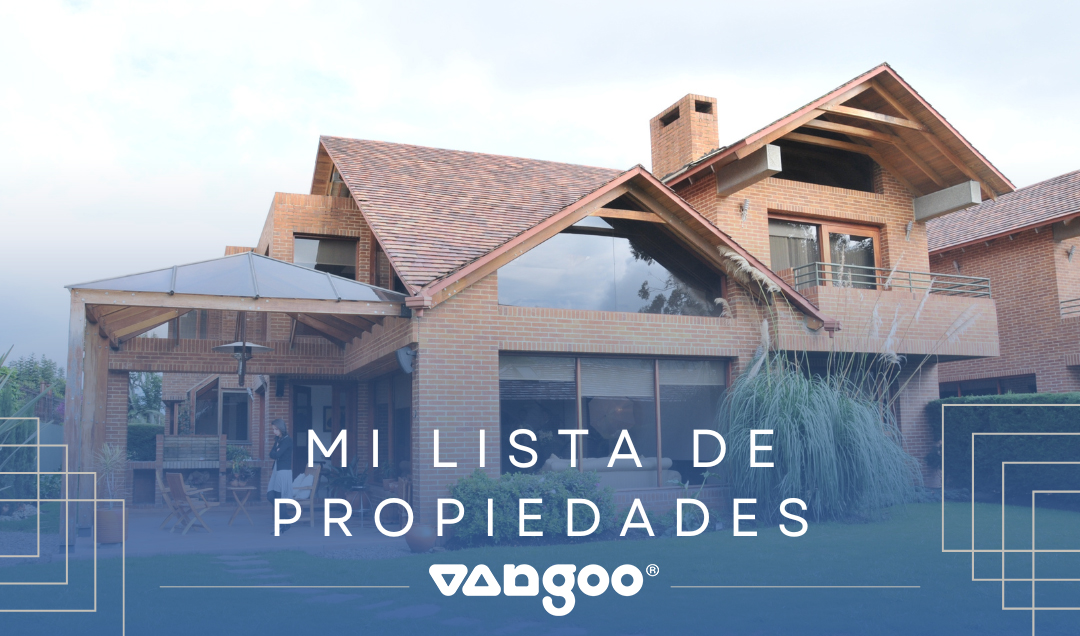
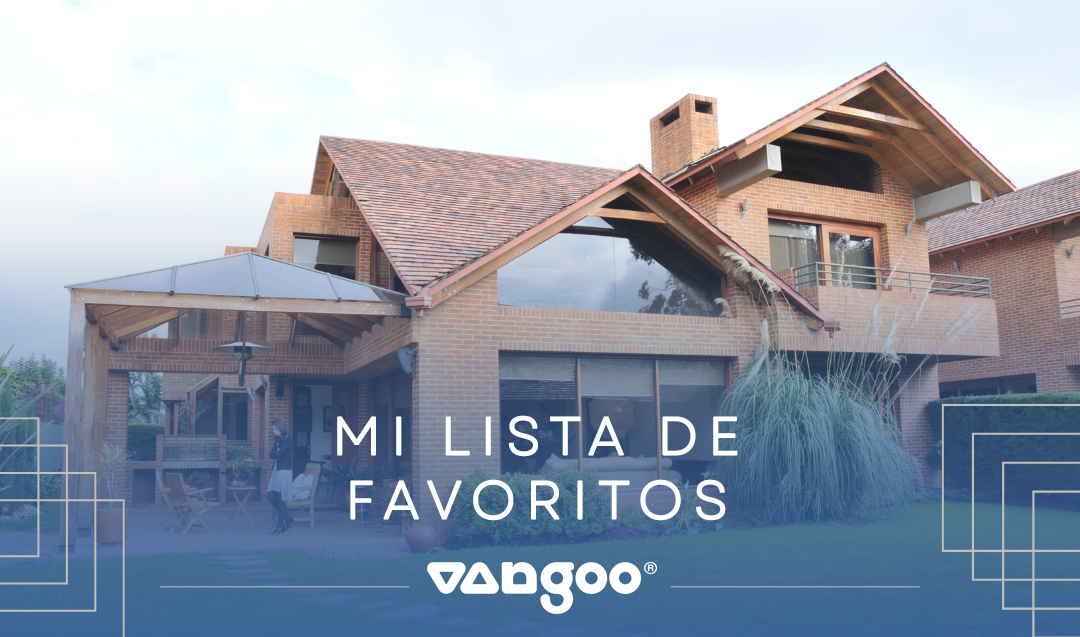
"Removed $typeText variable, updated URLs and API calls, and modified HTML structure and content in share/list/index.php and share/list/view.php files."

diff --git a/public/share/list/view.php b/public/share/list/view.php
@@ -6,10 +6,9 @@ if ($_GET && isset($_GET['id'])) {
     exit;
 }
 
-$typeText = 'properties';
-$urlShare = 'https://dashboard.vangoo.mx/share/property/view.php?id=' . $id;
+$urlShare = 'https://dashboard.vangoo.mx/share/list/view.php?id=' . $id;
 
-$urlApi = 'https://dashboard.vangoo.mx/ep/getProperty/' . $id;
+$urlApi = 'https://dashboard.vangoo.mx/ep/propertiesFromList/' . $id;
 $curl = curl_init($urlApi);
 curl_setopt($curl, CURLOPT_RETURNTRANSFER, true);
 $response = curl_exec($curl);
@@ -18,7 +17,7 @@ $data = json_decode($response);
 $data = json_decode(json_encode($data), true);
 
 if (!$data) {
-    echo "No se ha encontrado la propiedad";
+    echo "No se ha encontrado la lista";
     exit;
 }
 $data = $data[0];
@@ -42,16 +41,16 @@ function moneyFormat($numero)
 
     <meta name="description" content="<?php echo $data['description']; ?>">
     <meta name="keywords" content="comprar casa, comprar departamento,rentar,rentar casa,comprar nuevo león, rentar casa en nuevo león, comprar casa monterrey,publicar propiedad, buscar propiedades en nuevo león, buscar departamentos,sitio para vivir, lugar para vivir,encontrar dónde vivir, vender propiedades en nuevo león,comisión por venta de propiedad,propiedades destacados nuevo león,desarrollos inmobiliarios">
-    <meta property="image" content="https://dashboard.vangoo.mx/storage/img/posts/<?php echo $typeText; ?>/<?php echo $data['id']; ?>/1.jpg">
-    <meta property="image:secure_url" content="https://dashboard.vangoo.mx/storage/img/posts/<?php echo $typeText; ?>/<?php echo $data['id']; ?>/1.jpg">
+    <meta property="image" content="https://dashboard.vangoo.mx/share/list/preview.jpg">
+    <meta property="image:secure_url" content="https://dashboard.vangoo.mx/share/list/preview.jpg">
     <meta property="url" content="<?php echo $urlShare; ?>">
     <link rel="canonical" href="<?php echo $urlShare; ?>">
 
     <meta property="og:type" content="website">
-    <meta property="og:title" content="<?php echo $data['title']; ?>">
+    <meta property="og:title" content="<?php echo $data['listdata']['title']; ?>">
     <meta property="og:description" content="<?php echo $data['description']; ?>">
-    <meta property="og:image" content="https://dashboard.vangoo.mx/storage/img/posts/<?php echo $typeText; ?>/<?php echo $data['id']; ?>/1.jpg">
-    <meta property="og:image:secure_url" content="https://dashboard.vangoo.mx/storage/img/posts/<?php echo $typeText; ?>/<?php echo $data['id']; ?>/1.jpg">
+    <meta property="og:image" content="https://dashboard.vangoo.mx/share/list/preview.jpg">
+    <meta property="og:image:secure_url" content="https://dashboard.vangoo.mx/share/list/preview.jpg">
     <meta property="og:image:type" content="image/jpeg">
     <meta property="og:image:width" content="400">
     <meta property="og:image:height" content="300">
@@ -202,41 +201,18 @@ function moneyFormat($numero)
     <div class="container">
         <div class="logo-section">
             <img src="https://www.vangoo.mx/assets/img/system/new_logo.png" alt="Vangoo Logo" class="logo">
-            <a href="https://vangoo.mx/details/propiedad/<?php echo $id; ?>"><button class="btn">Ver detalles de la propiedad</button></a>
+            <a href="https://vangoo.mx/listdetails/<?php echo $id; ?>"><button class="btn">Ver lista completa</button></a>
         </div>
 
         <div class="card">
             <div class="card-header">
                 <div class="image-container">
-                    <img src="https://dashboard.vangoo.mx/storage/img/posts/<?php echo $typeText; ?>/<?php echo $data['id']; ?>/1.jpg?height=250&width=400" alt="Property" class="property-image">
+                    <img src="https://dashboard.vangoo.mx/share/list/preview.jpg?height=250&width=400" alt="Property" class="property-image">
                 </div>
             </div>
 
             <div class="card-content">
-                <h3 class="property-title"><?php echo $data['title']; ?></h3>
-                <p class="property-price"><?php echo moneyFormat($data['price']); ?></p>
-                <p class="property-address"><?php echo $data['location']; ?></p>
-            </div>
-
-            <div class="card-footer">
-                <div class="property-details">
-                    <div class="detail-item">
-                        <img src="https://www.vangoo.mx/assets/img/system/bed.svg" alt="Beds" class="icon">
-                        <span><?php echo $data['rooms']; ?></span>
-                    </div>
-                    <div class="detail-item">
-                        <img src="https://www.vangoo.mx/assets/img/system/bath.svg" alt="Baths" class="icon">
-                        <span><?php echo $data['bathrooms']; ?></span>
-                    </div>
-                    <div class="detail-item">
-                        <img src="https://www.vangoo.mx/assets/img/system/car.svg" alt="Parking" class="icon">
-                        <span><?php echo $data['parkings']; ?></span>
-                    </div>
-                    <div class="detail-item">
-                        <img src="https://www.vangoo.mx/assets/img/system/house.svg" alt="Size" class="icon">
-                        <span><?php echo $data['area']; ?>m²</span>
-                    </div>
-                </div>
+                <h3 class="property-title"><?php echo $data['listdata']['title']; ?></h3>
             </div>
         </div>
     </div>

diff --git a/public/share/list/index.php b/public/share/list/index.php
@@ -6,7 +6,6 @@ if ($_GET && isset($_GET['id'])) {
     exit;
 }
 
-$typeText = 'properties';
 $urlShare = 'https://dashboard.vangoo.mx/share/list/view.php?id=' . $id;
 
 $urlApi = 'https://dashboard.vangoo.mx/ep/propertiesFromList/' . $id;
